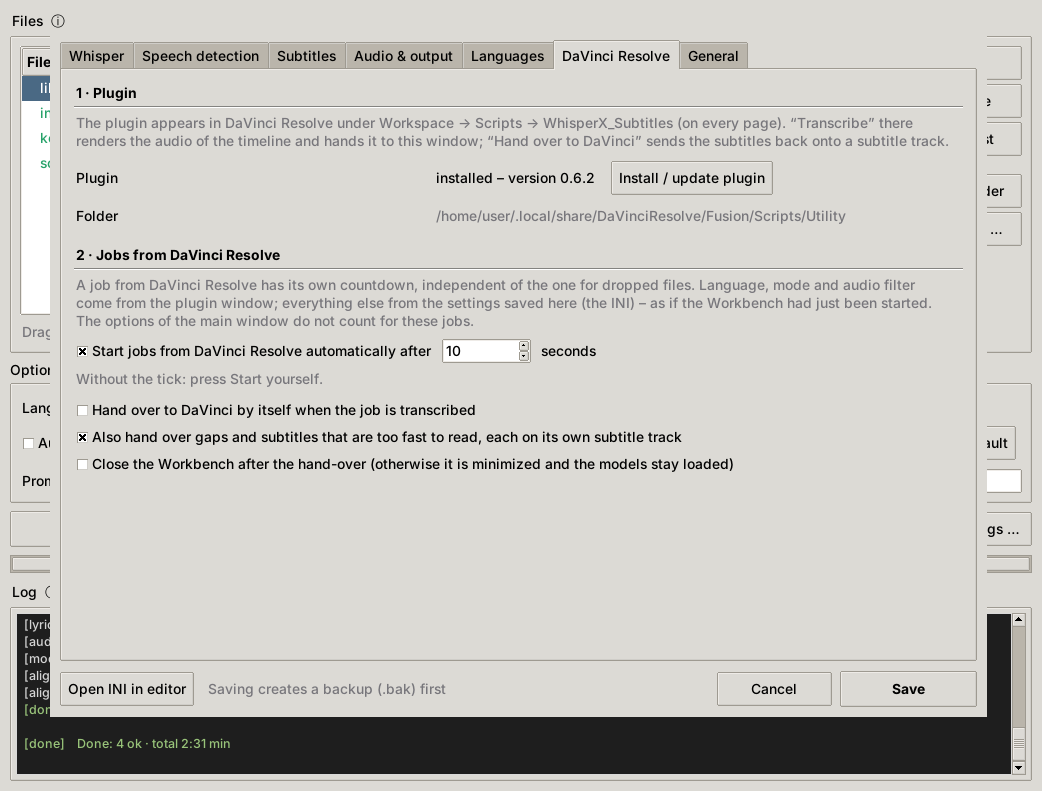
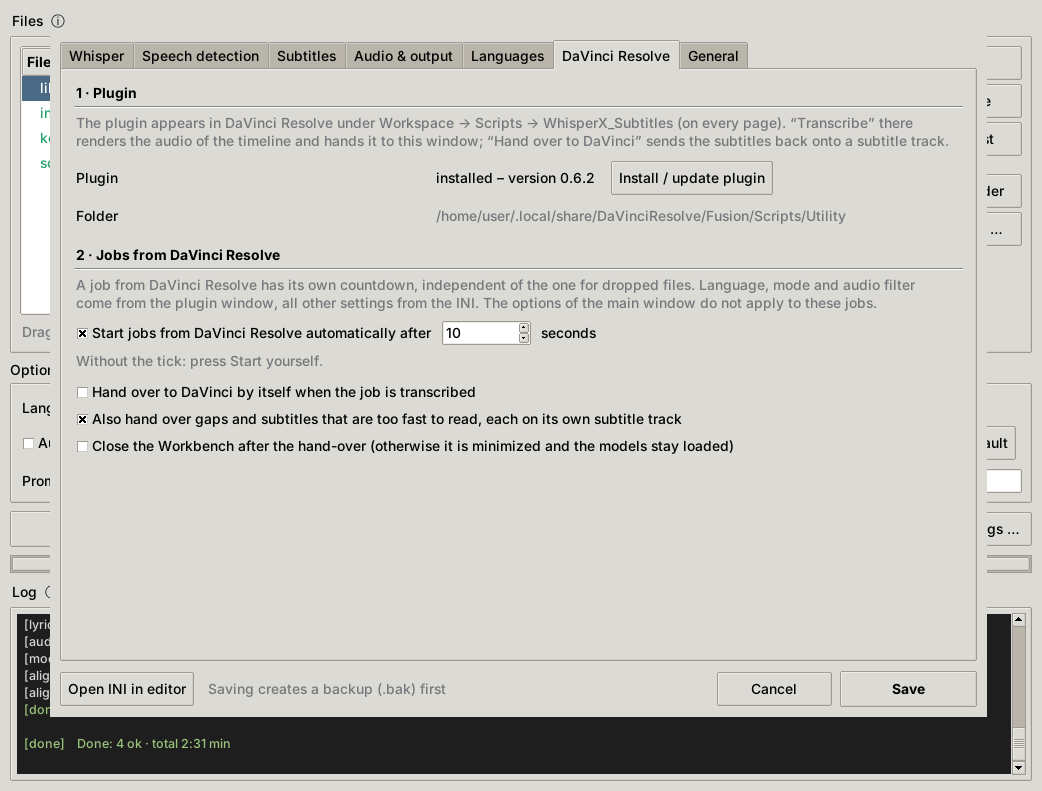
Neutral wording for the options of Resolve jobs
The log, the settings tab, the INI template, the READMEs and the changelog
no longer say "as on a fresh start". The log line now reads e.g.
"Other settings from the INI: prompt per language · 42 characters × 2 lines
· rules from Settings → Subtitles", with own short labels for the prompt
choice (per language / custom / none).

Claude-Session: https://claude.ai/code/session_01QDKquNLoRQs4gCRnuQ1T7a

Changed region(s): [[0.0614, 0.3641, 0.8906, 0.6068]]

diff --git a/whisper_tool.py b/whisper_tool.py
@@ -1057,8 +1057,7 @@ class App(BaseTk):
     def _resolve_options(self, job, cfg: core.Config | None = None) -> core.JobOptions:
         """
         Options of a DaVinci Resolve job: language, mode and audio filter as chosen in the plugin,
-        everything else from the INI – as if the Workbench had just been started. The options of
-        the main window do not count for these jobs.
+        all other settings from the INI. The options of the main window do not apply to these jobs.
         """
         o = core.JobOptions.from_config(cfg or self.cfg)
         return replace(o,
@@ -1075,7 +1074,8 @@ class App(BaseTk):
             mode=label_of(self.mode_choices, o.mode) + ("" if job.mode else ini),
             filter=T("resolve.filter_on" if o.use_filter else "resolve.filter_off")
             + ("" if job.use_filter is not None else ini)) + "\n")
-        prompt = {"ini": "main.pmode_ini", "custom": "main.pmode_custom"}.get(o.prompt_mode, "main.pmode_none")
+        prompt = {"ini": "resolve.prompt_ini", "custom": "resolve.prompt_custom"}.get(o.prompt_mode,
+                                                                                     "resolve.prompt_none")
         self._append_log(i18n.line("info", "resolve.log_job_ini", prompt=T(prompt), chars=o.max_chars,
                                    lines=o.max_lines) + "\n")
 

diff --git a/tests/test_resolve.py b/tests/test_resolve.py
@@ -411,8 +411,8 @@ def test_hand_over_with_gap_and_fast_tracks(tmp_path):
 
 
 def test_resolve_job_options_come_from_the_plugin_and_the_ini(tmp_path):
-    # language, mode and audio filter from the plugin – everything else from the INI, as on a
-    # fresh start; the main window (whatever it shows) does not count
+    # language, mode and audio filter from the plugin – all other settings from the INI; the
+    # main window (whatever it shows) does not apply
     wt = pytest.importorskip("whisper_tool")
     ini = tmp_path / "whisper_tool.ini"
     ini.write_text((ROOT / "whisper_tool.example.ini").read_text(encoding="utf-8")

diff --git a/README.de.md b/README.de.md
@@ -329,7 +329,7 @@ Nach einem Update der Workbench, nach dem Verschieben ihres Ordners und nach ein
 
 1. Die Timeline in Resolve öffnen. In und Out setzen, wenn nur ein Teil transkribiert werden soll, sonst gilt die ganze Timeline. Das Plugin starten, bei Bedarf **Sprache** und **Modus** für diesen Job wählen („Vorgabe der Workbench“ nimmt die Vorgabe aus der INI), den **Audiofilter** ein- oder ausschalten und **Transkribieren** drücken. Das Plugin-Fenster merkt sich Position, Größe und diese drei Auswahlen.
 2. Das Plugin rendert die Hauptmischung der Timeline als WAV nach `resolve_temp\<Job>\` der Workbench. Danach ist der Render-Job gelöscht, und Seite, Deliver-Einstellungen sowie In/Out-Marken sind wie vorher – auch nach einem Fehler oder *Abbrechen*. Dann startet es die Workbench mit der WAV; eine schon geöffnete Workbench übernimmt die Datei, ihre Modelle bleiben geladen.
-3. In der Workbench steht der Job als „*Timeline* · DaVinci Resolve“ in der Liste. Er hat einen eigenen Countdown (*Einstellungen → DaVinci Resolve*, Vorgabe 10 Sekunden). Sprache, Modus und Audiofilter kommen aus dem Plugin-Fenster, alles andere aus den Einstellungen in der INI, wie bei einem frischen Start: Prompt, Zeichen pro Zeile und Zeilen sowie alle Regeln aus *Einstellungen → Untertitel*. Die Einstellungen im Hauptfenster gelten für DaVinci-Jobs nicht. Das Protokoll zeigt beides an. Ohne Countdown startest du selbst mit *Start*. Währenddessen zeigt das Plugin-Fenster, wo der Job steht: Countdown, Transkription in Prozent, fertig.
+3. In der Workbench steht der Job als „*Timeline* · DaVinci Resolve“ in der Liste. Er hat einen eigenen Countdown (*Einstellungen → DaVinci Resolve*, Vorgabe 10 Sekunden). Sprache, Modus und Audiofilter kommen aus dem Plugin-Fenster, alle übrigen Einstellungen aus der INI: Prompt, Zeichen pro Zeile und Zeilen sowie alle Regeln aus *Einstellungen → Untertitel*. Die Einstellungen im Hauptfenster gelten für DaVinci-Jobs nicht. Das Protokoll zeigt beides an. Ohne Countdown startest du selbst mit *Start*. Währenddessen zeigt das Plugin-Fenster, wo der Job steht: Countdown, Transkription in Prozent, fertig.
 4. Ist der Job fertig, die Untertitel prüfen und **→ An DaVinci übergeben** drücken (blau, sobald der Job fertig ist). Die SRT wird an die Stelle des Bereichs in der Timeline verschoben und als `resolve_temp\<Timeline>_<SPRACHE>_<Datum-Uhrzeit>.srt` gespeichert; dieser Ordner enthält immer nur die SRT der letzten Übergabe. Der Name ist jedes Mal neu, weil Resolve eine Datei, die schon im Media Pool liegt, nicht noch einmal liest – es würde die Untertitel des ersten Imports einsetzen. Danach minimiert sich die Workbench – sie bleibt offen, ihre Modelle bleiben für den nächsten Job geladen. Unter *Einstellungen → DaVinci Resolve* kannst du automatisch übergeben lassen, sobald der Job transkribiert ist, und schließen statt minimieren.
 5. Das Plugin wartet in Resolve, wechselt zurück zur Timeline des Jobs, importiert die SRT in den Media-Pool-Bin *WhisperX* und legt sie auf die **erste leere Untertitelspur** (ST1, ST2, …) – oder auf eine neue. Die Spur heißt `WhisperX DE` (`WhisperX DE 2`, wenn es den Namen schon gibt) und bleibt die aktive Untertitelspur. Danach werden WAV und Job-Ordner gelöscht, und das Plugin-Fenster kommt mit dem Ergebnis nach vorne, bis du *OK* drückst.
 6. Eingeschaltet (Vorgabe) helfen zwei weitere Untertitelspuren beim Prüfen: **WhisperX Lücken** markiert laute Stellen ohne Text aus dem Lücken-Check, **WhisperX zu schnell** markiert Untertitel mit mehr als 17 Zeichen pro Sekunde (Modus *Satzweise*). Du springst in Resolve von Eintrag zu Eintrag und löschst danach die beiden Spuren. Die Spur mit dem Transkript bleibt die aktive.

diff --git a/README.md b/README.md
@@ -327,7 +327,7 @@ Install the plugin again after an update of the workbench, after moving its fold
 
 1. Open the timeline in Resolve. Set In and Out if only a part should be transcribed, otherwise the whole timeline is used. Start the plugin, choose **Language** and **Mode** if this job needs other ones than the workbench window (“Workbench default” takes the default from the INI), switch the **Audio filter** on or off, and press **Transcribe**. The plugin window remembers its position, its size and these three choices.
 2. The plugin renders the main mix of the timeline as WAV into `resolve_temp\<job>\` of the workbench. Afterwards the render job is deleted, and the page, the Deliver settings and the In/Out marks are as before – also after an error or *Cancel*. Then it starts the workbench with the WAV; a workbench that is already open takes the file over and keeps its models loaded.
-3. In the workbench the job appears as “*Timeline* · DaVinci Resolve”. It has its own countdown (*Settings → DaVinci Resolve*, 10 seconds by default). Language, mode and audio filter come from the plugin window; everything else comes from the settings in the INI, as on a fresh start: prompt, characters per line and lines, and all rules from *Settings → Subtitles*. The options of the main window do not count for DaVinci jobs. The log shows both. Without the countdown, press *Start* yourself. Meanwhile the plugin window shows where the job stands: countdown, transcription in percent, done.
+3. In the workbench the job appears as “*Timeline* · DaVinci Resolve”. It has its own countdown (*Settings → DaVinci Resolve*, 10 seconds by default). Language, mode and audio filter come from the plugin window; all other settings come from the INI: prompt, characters per line and lines, and all rules from *Settings → Subtitles*. The options of the main window do not apply to DaVinci jobs. The log shows both. Without the countdown, press *Start* yourself. Meanwhile the plugin window shows where the job stands: countdown, transcription in percent, done.
 4. When the job is done, check the subtitles and press **→ Hand over to DaVinci** (blue once the job is done). The SRT is moved to the position of the range in the timeline and saved as `resolve_temp\<Timeline>_<LANG>_<date-time>.srt`; this folder always holds only the SRT of the last hand-over. The name is new every time, because Resolve does not read a file again that is already in its media pool – it would place the subtitles of the first import. The workbench then minimizes itself – it stays open, so its models stay loaded for the next job. In *Settings → DaVinci Resolve* you can let it hand over by itself as soon as the job is transcribed, and close instead of minimize.
 5. The plugin, still waiting in Resolve, switches back to the timeline of the job, imports the SRT into the media pool bin *WhisperX* and puts it onto the **first empty subtitle track** (ST1, ST2, …) – or onto a new one. The track is named `WhisperX DE` (`WhisperX DE 2` if the name exists) and stays the active subtitle track. Then the WAV and the job folder are deleted, and the plugin window comes to the front with the result until you press *OK*.
 6. If switched on (the default), two more subtitle tracks help with checking: **WhisperX gaps** marks loud passages without text from the gap check, **WhisperX too fast** marks subtitles with more than 17 characters per second (mode *Sentences*). Jump through them in Resolve, then delete the two tracks. The transcript track stays the active one.

diff --git a/CHANGELOG.md b/CHANGELOG.md
@@ -6,7 +6,7 @@ All notable changes to WhisperX Subtitle Workbench. Versioning follows [Semantic
 
 **Updating from 0.6.1:** install the plugin again under *Settings → DaVinci Resolve*. The key `last_options` in `[Resolve]` is no longer used and can be deleted.
 
-- **Jobs from DaVinci Resolve use the INI.** Language, mode and audio filter come from the plugin window (it remembers these three); everything else comes from the INI, as on a fresh start – prompt, characters per line and lines, and all rules from *Settings → Subtitles*. The options of the main window no longer count for these jobs, and the workbench no longer brings back the options of the last DaVinci job. The log shows what the plugin chose and what comes from the INI. In the plugin, “as in the Workbench” is now called “Workbench default”
+- **Jobs from DaVinci Resolve use the INI.** Language, mode and audio filter come from the plugin window (it remembers these three); all other settings come from the INI – prompt, characters per line and lines, and all rules from *Settings → Subtitles*. The options of the main window no longer apply to these jobs, and the workbench no longer brings back the options of the last DaVinci job. The log shows what the plugin chose and what comes from the INI. In the plugin, “as in the Workbench” is now called “Workbench default”
 - **Fixed:** the plugin window did not come back at its saved size. Resolve 21.2 reports the width a little below the minimum the plugin sets (505 instead of 520), and the plugin dropped such a size as unusable
 - Tested with DaVinci Resolve Studio 21.2.0.5
 
